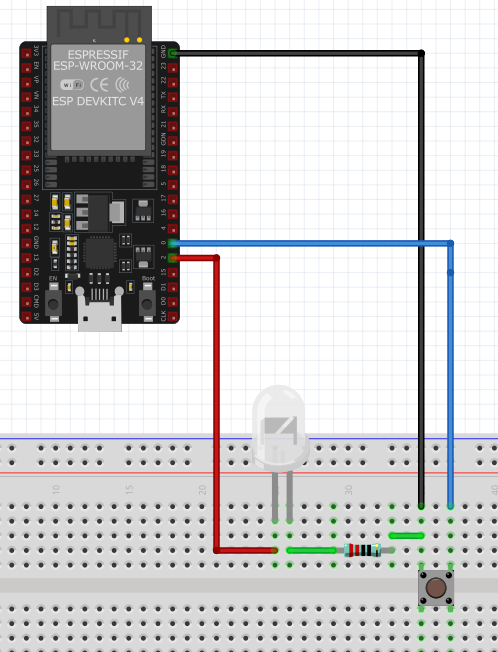
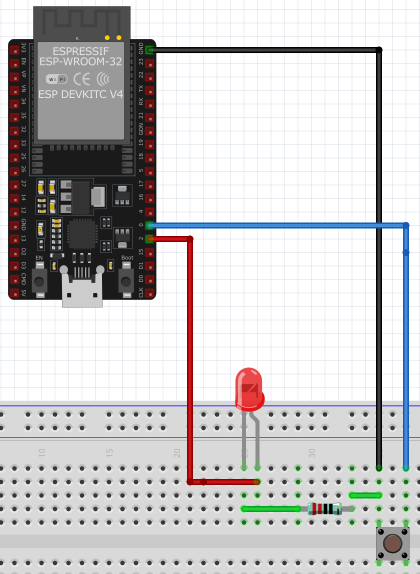
Update from https://github.com/fabiobento/sis-emb-2026-2-privado/commit/012c377a091ac20aff79db4cf81ddd25b6b16634

Changed region(s): [[0.0, 0.0, 1.0, 1.0]]

diff --git a/semana-02/lab-02.md b/semana-02/lab-02.md
@@ -92,9 +92,9 @@ I (180) boot: Loaded app from partition at offset 0x10000
 > isso (o botão BOOT força o modo de gravação no reset).
 
 ## Parte B — Pisca por registrador (40 min)
-**B.0** Monte na protoboard: **GPIO 2 → resistor 220 Ω → anodo do LED → catodo → GND**
+**B.0** Monte no protoboard: **GPIO 2 → resistor 220 Ω → anodo do LED → catodo → GND**
 (mesma topologia do Wokwi do Lab 1, agora com elétrons de verdade). Agora acioremos um LED externo.
-![](https://raw.githubusercontent.com/fabiobento/sis-emb-2026-2/main/assets/figuras/lab-01.png)
+![](https://raw.githubusercontent.com/fabiobento/sis-emb-2026-2/main/assets/figuras/lab-01-hard.png)
 
 > Nota: Você também pode encontrar uma cópia desse circuito nesse projeto Wokwi: [Lab-01](https://wokwi.com/projects/471428016666162177).
 
